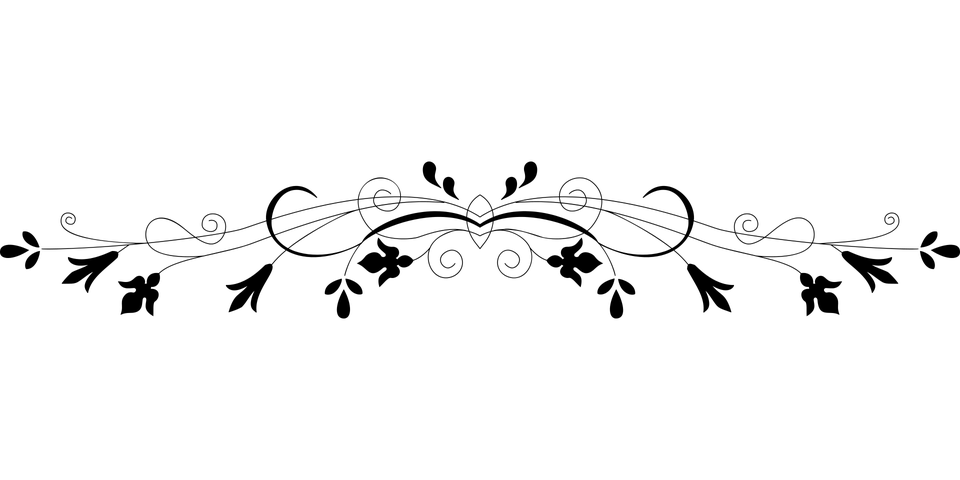
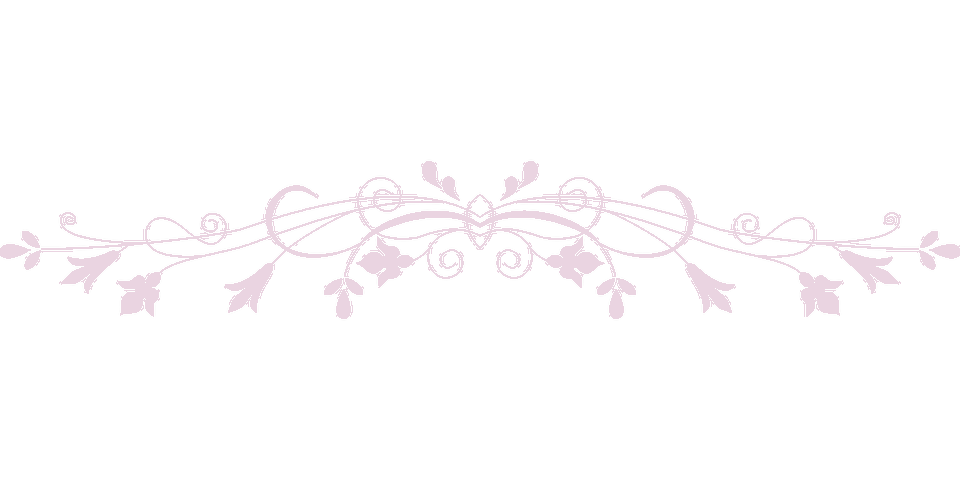
Add files via upload

diff --git a/landing.html b/landing.html
@@ -142,7 +142,28 @@ img:hover {
 <img id="lago" src="https://b3event.github.io/apple-touch-icon.png" class="icenter" alt="B3Event" width="75" height="75" onclick="location.href='https://www.b3event.com/'">
 <h2 id="titlesh" class="headertekst">Landing Page</h2>
 
+<div id="breakss" style="text-align: center;">
+<br>
+</div>
+<div style="text-align: center;">
+<!--<img src="https://cdn.pixabay.com/photo/2016/10/18/19/04/floral-1751088__480.png" height="100px" alt=""><br><br>-->
+<img src="floral-1751088__480.png" height="100px" alt=""><br>
 
+<div id="div1" style="display: none;"><a id="link1" href="" style="font-family: Petit Formal Script;color: #222325;font-size: 20px;background-color:#b8c0c2;">link1</a><br><br></div>
+<div id="div2" style="display: none;"><a id="link2" href="" style="font-family: Petit Formal Script;color: #222325;font-size: 20px;background-color:#b8c0c2;">link2</a><br><br></div>
+<div id="div3" style="display: none;"><a id="link3" href="" style="font-family: Petit Formal Script;color: #222325;font-size: 20px;background-color:#b8c0c2;">link3</a><br><br></div>
+<div id="div4" style="display: none;"><a id="link4" href="" style="font-family: Petit Formal Script;color: #222325;font-size: 20px;background-color:#b8c0c2;">link4</a><br><br></div>
+<div id="div5" style="display: none;"><a id="link5" href="" style="font-family: Petit Formal Script;color: #222325;font-size: 20px;background-color:#b8c0c2;">link5</a><br><br></div>
+<div id="div6" style="display: none;"><a id="link6" href="" style="font-family: Petit Formal Script;color: #222325;font-size: 20px;background-color:#b8c0c2;">link6</a><br><br></div>
+<div id="div7" style="display: none;"><a id="link7" href="" style="font-family: Petit Formal Script;color: #222325;font-size: 20px;background-color:#b8c0c2;">link7</a><br><br></div>
+<div id="div8" style="display: none;"><a id="link8" href="" style="font-family: Petit Formal Script;color: #222325;font-size: 20px;background-color:#b8c0c2;">link8</a><br><br></div>
+<div id="div9" style="display: none;"><a id="link9" href="" style="font-family: Petit Formal Script;color: #222325;font-size: 20px;background-color:#b8c0c2;">link9</a><br><br></div>
+<div id="div10" style="display: none;"><a id="link10" href="" style="font-family: Petit Formal Script;color: #222325;font-size: 20px;background-color:#b8c0c2;">link10</a><br><br></div>
+
+<img src="floral-1751088__480.png" height="100px" alt=""><br><br>
+<a href="sms:+1" style="font-family: times new roman;font-size: 20px;">Questions: SMS the planner</a><br><br>
+<a href="https://www.b3event.com/" style="font-family: times new roman;font-size: 20px;">More about B3 Event Management</a>
+</div>
 
 <script>
 
@@ -189,10 +210,16 @@ function myFunction2() {
   document.body.style.backgroundColor = "#"+myArray[2];
   document.getElementById("titlesh").style["background-color"] = "#"+myArray[2];
   document.getElementById("titlesh").style["color"] = "#"+myArray[4];
-  document.getElementById("titlesh").innerHTML = myArray[8];
-  document.title = myArray[8];
+  document.getElementById("titlesh").innerHTML = myArray[6];
+  document.title = myArray[6];
   
+  var breaksss = "";
   
+  for (var i = 0; i < myArray[10]; i++) {
+        breaksss = breaksss+"<br>";
+    }
+  alert(breaksss);
+  document.getElementById("breakss").innerHTML=breaksss;
 }
 
 </script>
